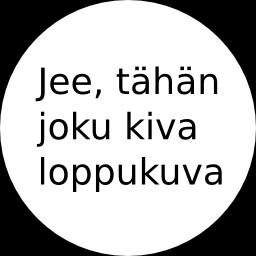
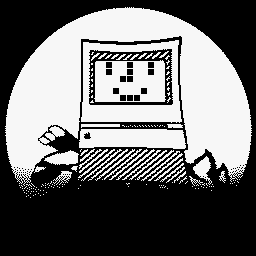
Final graphics and some tweaking

diff --git a/Effects.h b/Effects.h
@@ -266,12 +266,14 @@ int yesWeHaveALoadingScreen(int time, int duration)
         {
             modPlayer = new ModPlayer(mixer);
             assert(modPlayer);
-            assert(modPlayer->load(SONGFILE));
+            bool songLoaded = modPlayer->load(SONGFILE);
+			assert(songLoaded);
             modPlayer->play();
         }
 
         mixer->render(sampleChunk);
-        assert(fwrite(sampleChunk->data, sampleChunk->bytes, 1, rawMusicFile) == 1);
+        int writeLen = fwrite(sampleChunk->data, sampleChunk->bytes, 1, rawMusicFile);
+		assert(writeLen == 1);
         musicLoadingPos += sampleChunk->length;
         drawLoadingScreen(musicLoadingPos / 2 + musicLength / 2, musicLength);
         EFFECT_TITLE("Loading screen (music)    ");
@@ -376,7 +378,7 @@ int intro(int time, int duration)
     drawCity(pos);
     EFFECT_TITLE("Intro");
 
-    mxBlit(screen, img.textTitle, img.textTitleMask, 128, 30, NULL, 0);
+    blitCentered(screen, img.textTitle, img.textTitleMask, 256, 100, NULL, 0);
 
     mxBlit(screen, img.introMac, img.introMacMask, 88, 200 + bop, NULL, 0);
     return 1;
@@ -526,15 +528,15 @@ int macbookRidiculePrep(int time, int duration)
 
 int macbookRidicule(int time, int duration)
 {
-    int pos1 = pow2(max(0,  400 - time)) >> 8;
-    int pos2 = pow2(max(0,  500 - time)) >> 8;
-    int pos3 = pow2(max(0, 1200 - time)) >> 8;
-    int pos4 = pow2(max(0, 1400 - time)) >> 8;
+    int pos1 = pow2(max(0,  200 - time)) >> 8;
+    int pos2 = pow2(max(0,  200 - time)) >> 8;
+    int pos3 = pow2(max(0,  600 - time)) >> 8;
+    int pos4 = pow2(max(0,  800 - time)) >> 8;
 
     mxBlit(screen, img.macOnStreetBg, NULL, 0, 0, NULL, 0);
     EFFECT_TITLE("Macbook Ridicule");
 
-    if (time & 0x80 && time < 1600)
+    if (time & 0x80 && time < 1000)
     {
         mxBlit(screen, img.faceMacbookNoticeMacTalk, NULL, 104 - 200 + 1050 - (72 << 3) + 32, 20 + 400 - (72 << 2) + 50, NULL, 0);
     }
@@ -778,9 +780,9 @@ int pcRidicule(int time, int duration)
     int pos3 = pow2(max(0, 1200 - time)) >> 8;
     int pos4 = pow2(max(0, 1500 - time)) >> 8;
 
-    blitCentered(screen, img.textRun, img.textRunMask, 256 - 64, 40 + pos1, NULL, 0);
-    blitCentered(screen, img.textAny, img.textAnyMask, 256 + 64, 100 + pos2, NULL, 0);
-    blitCentered(screen, img.textDemos, img.textDemosMask, 256, 180 + pos3, NULL, 0);
+    blitCentered(screen, img.textRun, img.textRunMask, 256 - 80, 80 + pos1, NULL, 0);
+    blitCentered(screen, img.textAny, img.textAnyMask, 256 + 80, 80 + pos2, NULL, 0);
+    blitCentered(screen, img.textDemos, img.textDemosMask, 256, 160 + pos3, NULL, 0);
     blitCentered(screen, img.textLately, img.textLatelyMask, 256, 260 + pos4, NULL, 0);
 
     return 1;
@@ -899,7 +901,7 @@ int pcFxIntro(int time, int duration)
     blitCentered(screen, img.textYeah, img.textYeahMask, 128 + 160 + bop2, 60 + pos1, NULL, 0);
     blitCentered(screen, img.textGetA, img.textGetAMask, 128 + 192, 120 + pos2, NULL, 0);
     blitCentered(screen, img.textLoadOf, img.textLoadOfMask, 128 + 224, 180 + pos3, NULL, 0);
-    blitCentered(screen, img.textThis, img.textThisMask, 128 + 256, 240 + pos4, NULL, 0);
+    blitCentered(screen, img.textThis, img.textThisMask, 96 + 256, 240 + pos4, NULL, 0);
 
     return 1;
 }
@@ -1221,12 +1223,12 @@ int kidHelp(int time, int duration)
 
 int pedobearRunSide(int time, int duration)
 {
-    int pos = -128 + (time >> 2);
+    int pos = -128 + (time / 3);
     int bop = sawtooth(time >> 1) >> 2;
 
     mxFill(screen, NULL, 0);
     drawCity(0);
-    mxBlit(screen, img.guysOnStreet, NULL, 0, 200, NULL, 0);
+    mxBlit(screen, img.guysOnStreet, NULL, 0, 180, NULL, 0);
     mxBlit(screen, img.pedobearRunSide, img.pedobearRunSideMask, pos, 170 + bop, NULL, 0);
     EFFECT_TITLE("Pedobear Run");
     return 1;
@@ -1234,10 +1236,10 @@ int pedobearRunSide(int time, int duration)
 
 int pedobearRunFront(int time, int duration)
 {
-    int bop = sawtooth(time >> 1) >> 3;
+    int bop = sawtooth(time >> 1) >> 2;
 
     drawBackgroundPattern5(time);
-    mxBlit(screen, img.pedobearRunFront, img.pedobearRunFrontMask, 256 - 128, 171 - 128 + bop, NULL, 0);
+    mxBlit(screen, img.pedobearRunFront, img.pedobearRunFrontMask, 256 - 128, 171 - 180 + bop, NULL, 0);
     EFFECT_TITLE("Pedobear Run");
     return 1;
 }
@@ -1352,8 +1354,8 @@ int macHasPlan(int time, int duration)
     rect.w = 8 + (time >> 2);
     rect.h = img.textStepAside->h;
 
-    blitCentered(screen, img.textStepAside, img.textStepAsideMask, 192, 60, &rect, 0);
-    blitCentered(screen, img.textKids, img.textKidsMask, 380, 55 - pos1, NULL, 0);
+    blitCentered(screen, img.textStepAside, img.textStepAsideMask, 144, 60, &rect, 0);
+    blitCentered(screen, img.textKids, img.textKidsMask, 390, 55 - pos1, NULL, 0);
 
     mxBlit(screen, img.macCloseUp, NULL, 256 - 128, 120 + bop, NULL, 0);
     if (time & 0x80 && time < 1300)
@@ -1615,7 +1617,7 @@ EffectEntry effects[] =
 {
     {yesWeHaveALoadingScreen, 0, EFFECT_FLAG_DYNAMIC},
     {clearScreen,             0, EFFECT_FLAG_DYNAMIC | EFFECT_FLAG_INFINITESIMAL},
-    {intro,                   P / 2, 0},
+	{intro,                   P / 2, 0},
     {preloadMusic,            0, EFFECT_FLAG_DYNAMIC | EFFECT_FLAG_INFINITESIMAL},
     {macOnStreet,             P / 2, 0},
     {guysSpotMac,             P / 4, 0},
@@ -1641,7 +1643,7 @@ EffectEntry effects[] =
     {sadMac2,                 P / 2, 0},
     {preloadMusic,            0, EFFECT_FLAG_DYNAMIC | EFFECT_FLAG_INFINITESIMAL},
     {kidHelp,                 P / 4, 0},
-    {pedobearRunSide,         P / 4, 0},
+	{pedobearRunSide,         P / 4, 0},
     {preloadMusic,            0, EFFECT_FLAG_DYNAMIC | EFFECT_FLAG_INFINITESIMAL},
     {pedobearRunFront,        P / 2, 0},
     {preloadMusic,            0, EFFECT_FLAG_DYNAMIC | EFFECT_FLAG_INFINITESIMAL},

diff --git a/engine/SdlVideo.cpp b/engine/SdlVideo.cpp
@@ -15,6 +15,8 @@ static bool paused = false;
 static int timeSkipOffset = 0;
 static int pauseTime = 0;
 
+//#define DEMO_DEBUG
+
 Video::Video(int w, int h)
 {
     win = SDL_SetVideoMode(w, h, 32, 0);
@@ -24,6 +26,7 @@ Video::Video(int w, int h)
         return;
     }
     backbuffer = mxCreateSurface(win->w, win->h, MX_PIXELFORMAT_I1, 0);
+	SDL_WM_SetCaption("3.5 inches is enough", NULL);
 
     printf("Video: %dx%d, 1 bpp\n", w, h);
 }
@@ -114,6 +117,7 @@ bool Video::processInput(void)
                 {
                     return false;
                 }
+#ifdef DEMO_DEBUG
                 else if (event.key.keysym.sym == 'p')
                 {
                     if (!paused)
@@ -139,7 +143,8 @@ bool Video::processInput(void)
                     timeSkip = false;
                 }
                 break;
-        }
+#endif
+		}
     }
     return true;
 }

diff --git a/Main.cpp b/Main.cpp
@@ -205,7 +205,8 @@ MXSurface* loadImage(FILE* packFile)
 {
     MXSurface header;
     MXSurface* surf;
-    assert(fread(&header, sizeof(int) * 7, 1, packFile) == 1);
+	int headerLen = fread(&header, sizeof(int) * 7, 1, packFile);
+    assert(headerLen == 1);
     
 #ifdef BIG_ENDIAN
     header.w = swapEndian(header.w);
@@ -222,7 +223,8 @@ MXSurface* loadImage(FILE* packFile)
         return surf;
     }
 
-    assert(fread(surf->pixels, header.planeSize, 1, packFile) == 1);
+    int readLen = fread(surf->pixels, header.planeSize, 1, packFile);
+	assert(readLen == 1);
     mxFlushSurface(surf);
 
     return surf;
